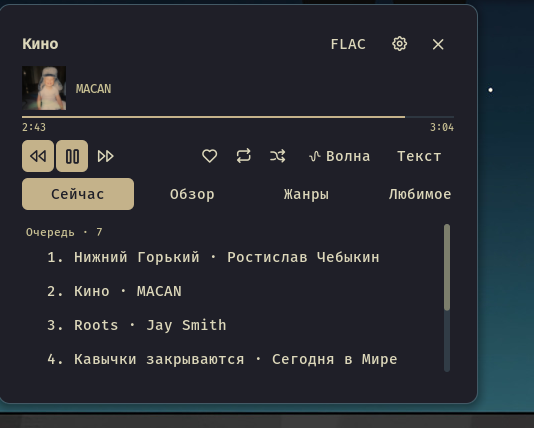
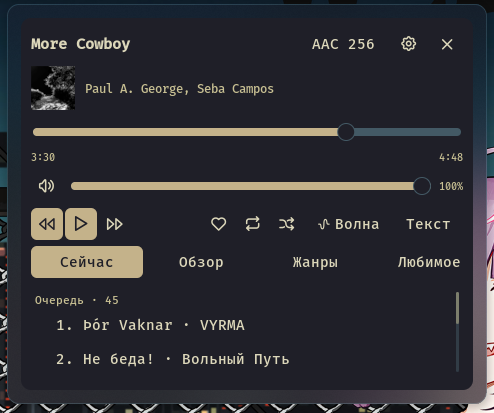
docs: скриншоты 0.4.2 на eDP-1 и актуальный манифест в доке (#25)

diff --git a/docs/design/noctalia.md b/docs/design/noctalia.md
@@ -2,9 +2,11 @@
 
 ## Как это выглядит
 
-Снято на Fedora 44 / niri 26.04 / Noctalia v5.4.1, тема Dracula, поток FLAC.
+Снято на Fedora 44 / niri 26.04 / Noctalia v5.6.0, экран eDP-1 (1920×1080),
+палитра Kanagawa Paper, поток AAC 256.
 
-Бар: значок действия и «трек — артист» в одной капсуле с остальными виджетами.
+Бар: значок состояния и подпись — по умолчанию `ymd`, настройка виджета `label`
+переключает её на «трек — артист».
 
 ![Виджет в баре](../images/noctalia-bar.png)
 
@@ -12,34 +14,58 @@
 
 ![Панель](../images/noctalia-panel.png)
 
+Настройки: аккаунт, качество, кэш и версии плагина с демоном.
+
+![Настройки панели](../images/noctalia-panel-settings.png)
+
 ## Манифест
 
 Фактический `noctalia/plugin.toml`:
 
 ~~~toml
 id = "pbolkhovitin/yandex-music"
-name = "Yandex Music"
-version = "0.2.1"
+name = "ymd"
+version = "0.4.2"
 plugin_api = 35
 author = "pbolkhovitin"
 license = "MIT"
 icon = "music"
-description = "Яндекс Музыка в баре и панели Noctalia через демон ymd."
+description = "Неофициальный клиент Яндекс Музыки: бар-виджет и панель Noctalia через демон ymd."
 tags = ["music", "media", "yandex"]
 
+# Бар-виджет: иконка + подпись, клики и колесо.
+# `label` выбирает, что писать рядом с иконкой: название трека или имя приложения.
 [[widget]]
 id = "bar"
 entry = "widget.luau"
 hover_highlight = false
 
+  [[widget.setting]]
+  key = "label"
+  type = "select"
+  label_key = "settings.label.label"
+  description_key = "settings.label.description"
+  default = "app"
+
+   [[widget.setting.options]]
+   value = "app"
+   label_key = "settings.label.options.app"
+
+   [[widget.setting.options]]
+   value = "title"
+   label_key = "settings.label.options.title"
+
+# Диагностический виджет: печатает реальные имена методов barWidget.*/ui.*/noctalia.*
 [[widget]]
-id = "probe"          # диагностика: печатает методы barWidget/ui/noctalia
+id = "probe"
 entry = "probe.luau"
 
+# Фоновая подписка на SSE.
 [[service]]
-id = "bridge"         # фоновая SSE-подписка
+id = "bridge"
 entry = "bridge.luau"
 
+# Панель плеера: поиск, очередь, транспорт.
 [[panel]]
 id = "panel"
 entry = "panel.luau"

diff --git a/notes/noctalia-ui-findings.md b/notes/noctalia-ui-findings.md
@@ -147,3 +147,28 @@ noctalia msg plugin 'pbolkhovitin/yandex-music:panel' all refresh
 Для съёмки панели пришлось выключить `shell.panel.open_near_click_session`
 (иначе панель открывается у последнего клика и уводит фокус на другой
 воркспейс) и вернуть настройку после.
+
+## Скриншоты (2026-11-23, eDP-1)
+
+Пересъёмка под 0.4.2: docs/images/noctalia-bar.png, noctalia-panel.png
+и новый noctalia-panel-settings.png.
+
+- Экран — встроенный **eDP-1** (1920×1080, логическая позиция 301,1440),
+  снимали grim -g "301,1440 1920x1080". Внешний DP-3 (3840×2160) в кадр
+  не попадает.
+- Бар: чтобы в кадре был только виджет, временно оставили в раскладке
+  center = ["ym"], start = [], end = [] через
+  noctalia msg config-set bar.default.*. Подпись — label = "title";
+  ключ живёт в секции [widget.ym] файла
+  ~/.local/state/noctalia/settings.toml (через config-set путь
+  plugin_settings.* не принимается: «unknown setting»).
+- Кадр бара — кроп 809,0 → 1112,38, апскейл ×4 → 1212×152.
+- Панель: границы найдены диффом «закрыто/открыто» по порогу 25 —
+  тело (717,42)–(1202,446); кроп с небольшим полем 713,38 → 1207,451
+  → 494×413. Открывали noctalia msg panel-toggle, вид «Настройки» —
+  noctalia msg plugin pbolkhovitin/yandex-music:panel all view settings
+  (для service-style entry обязателен target all).
+- Настройки хоста после съёмки восстановлены из бэкапа settings.toml;
+  проверено, что раскладка бара вернулась к исходной.
+- scripts/social-preview.sh кроит панель по новому размеру
+  (-crop 486x405+4+4), social preview пересобран: v0.4.2.

diff --git a/CHANGELOG.md b/CHANGELOG.md
@@ -9,10 +9,13 @@
 
 ## [Unreleased]
 
+### Изменено
+
+- Скриншоты в README и docs/design/noctalia.md пересняты на eDP-1 под 0.4.2: бар (подпись label = "title"), панель «Сейчас» и новый кадр настроек с версиями плагина и демона. Social preview пересобран, описание репозитория обновлено.
+
 ## [0.4.2] - 2026-11-23
 
 ### Изменено
-
 - Панель Noctalia: в «Настройках» появилась строка версий — плагин читается
   из `plugin.toml`, демон отдаёт свою в `/v1/health`; после обновления
   видно, что именно запущено, без захода в терминал.
